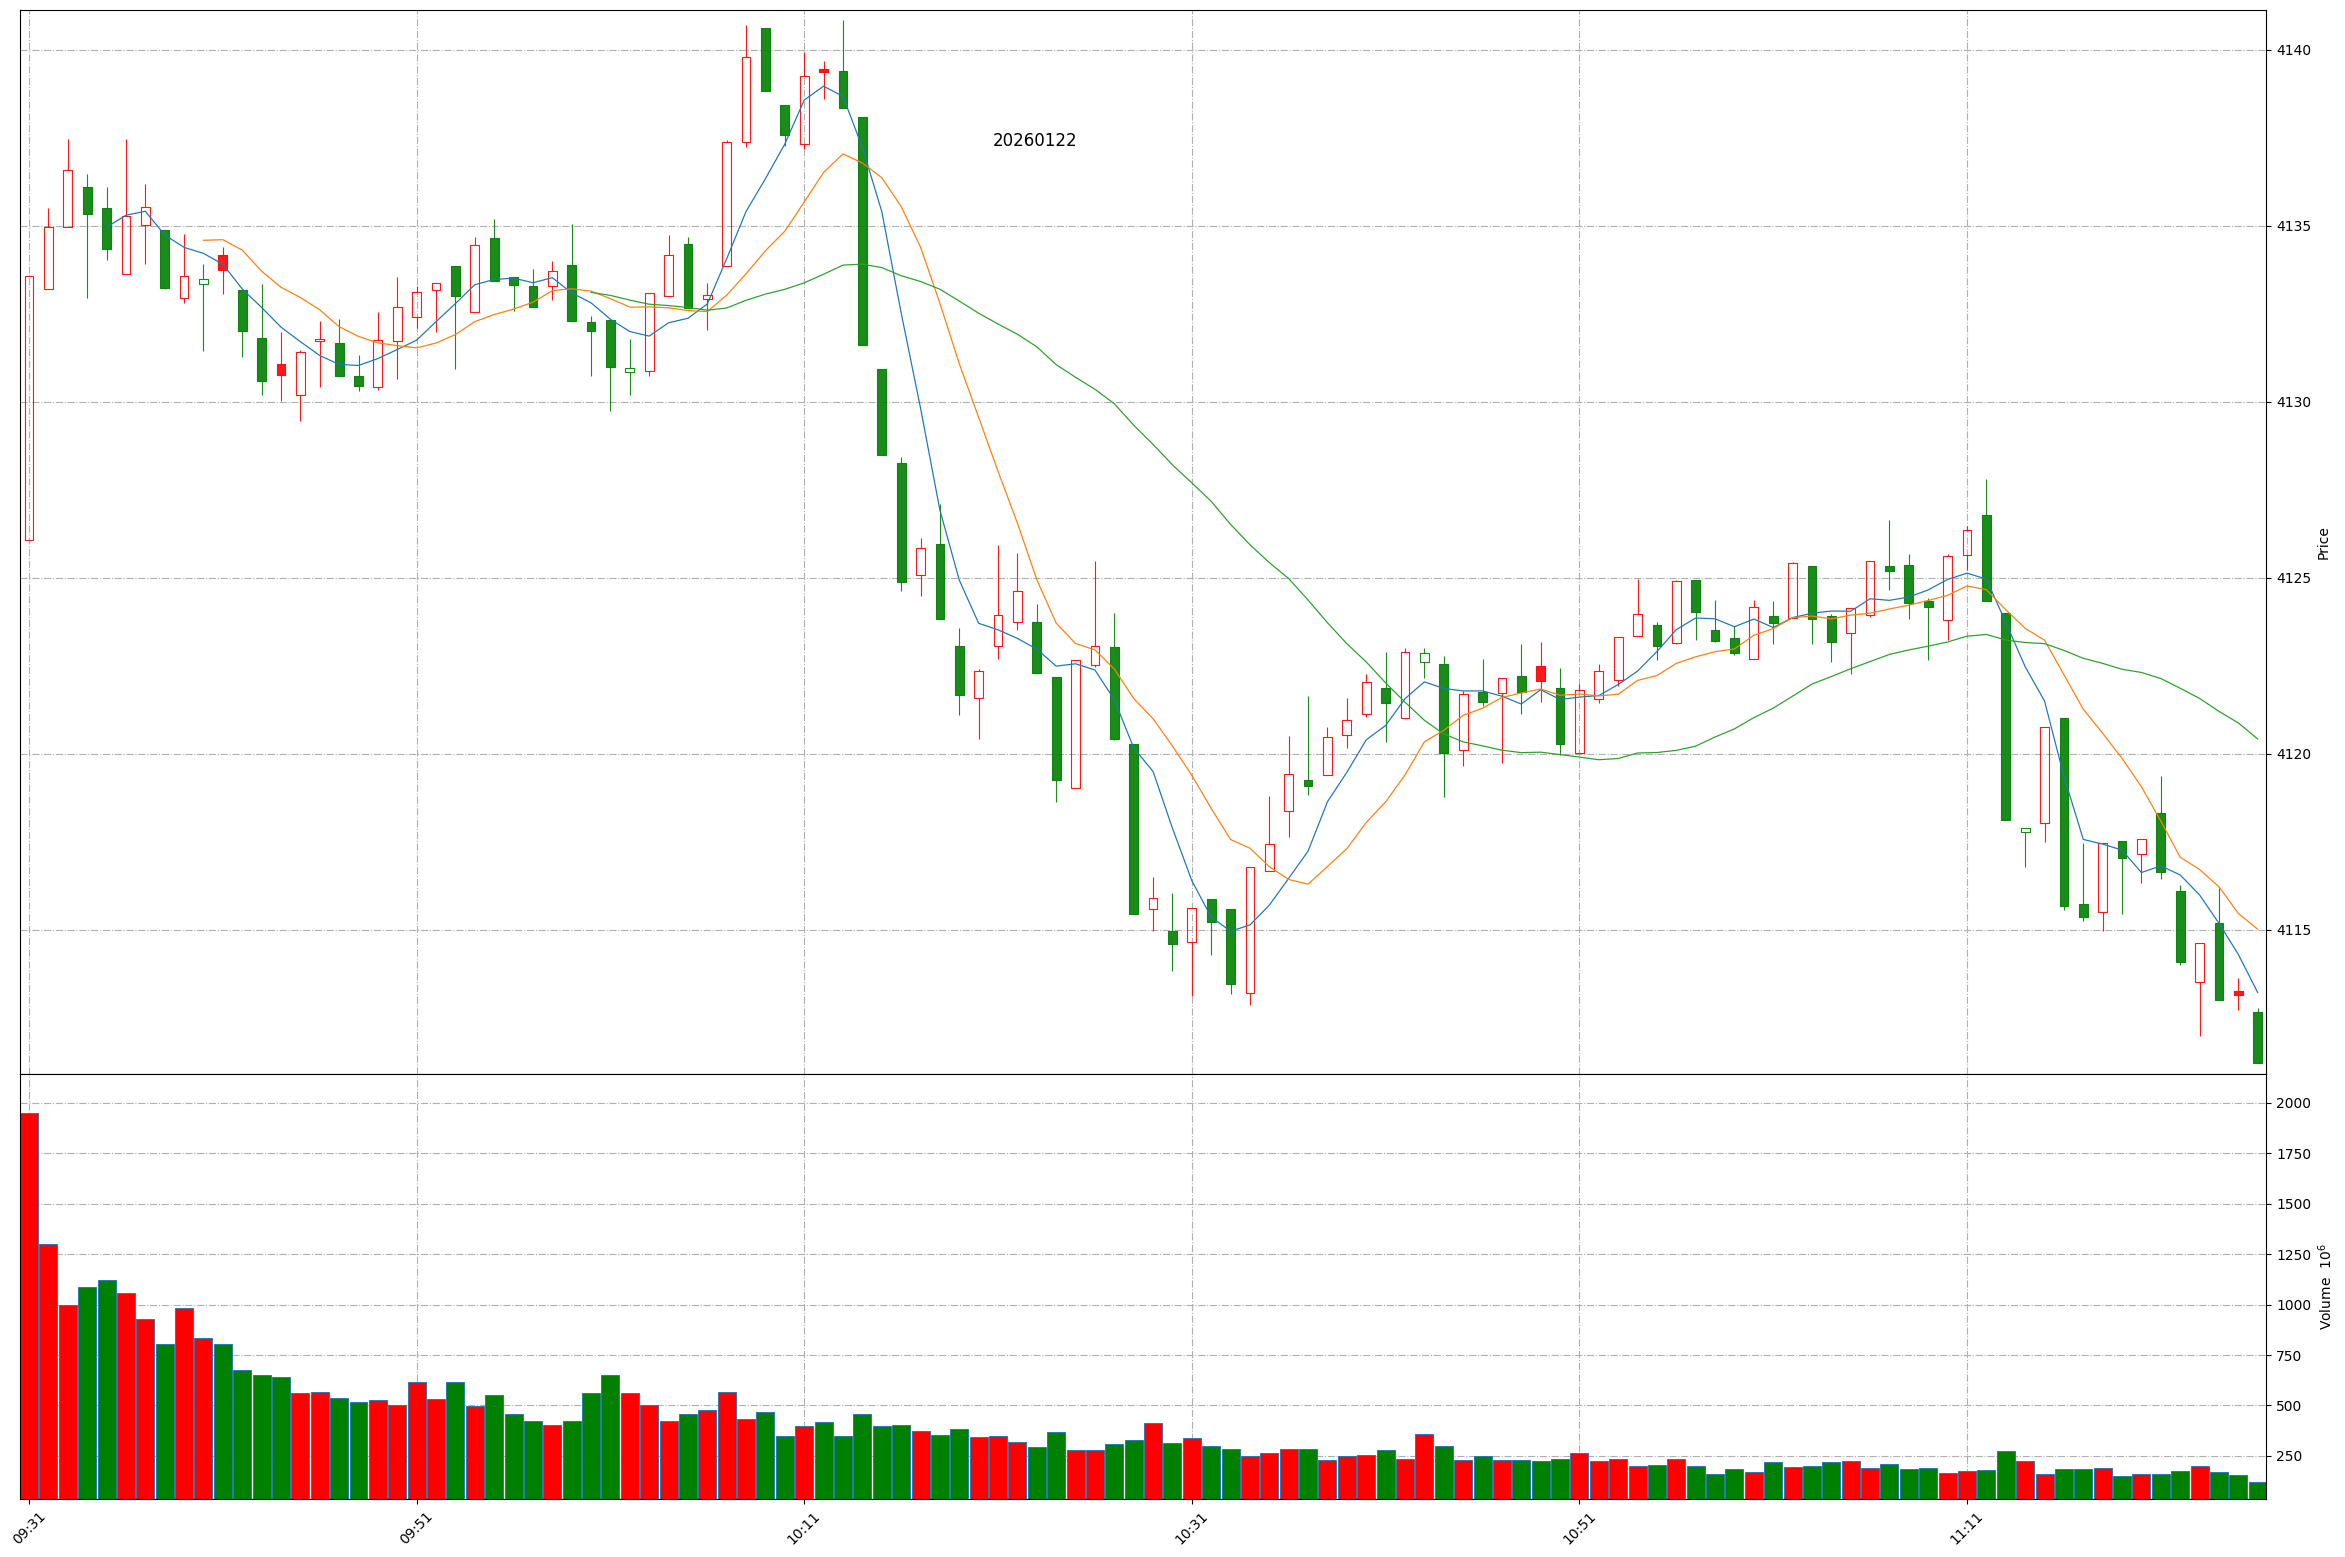
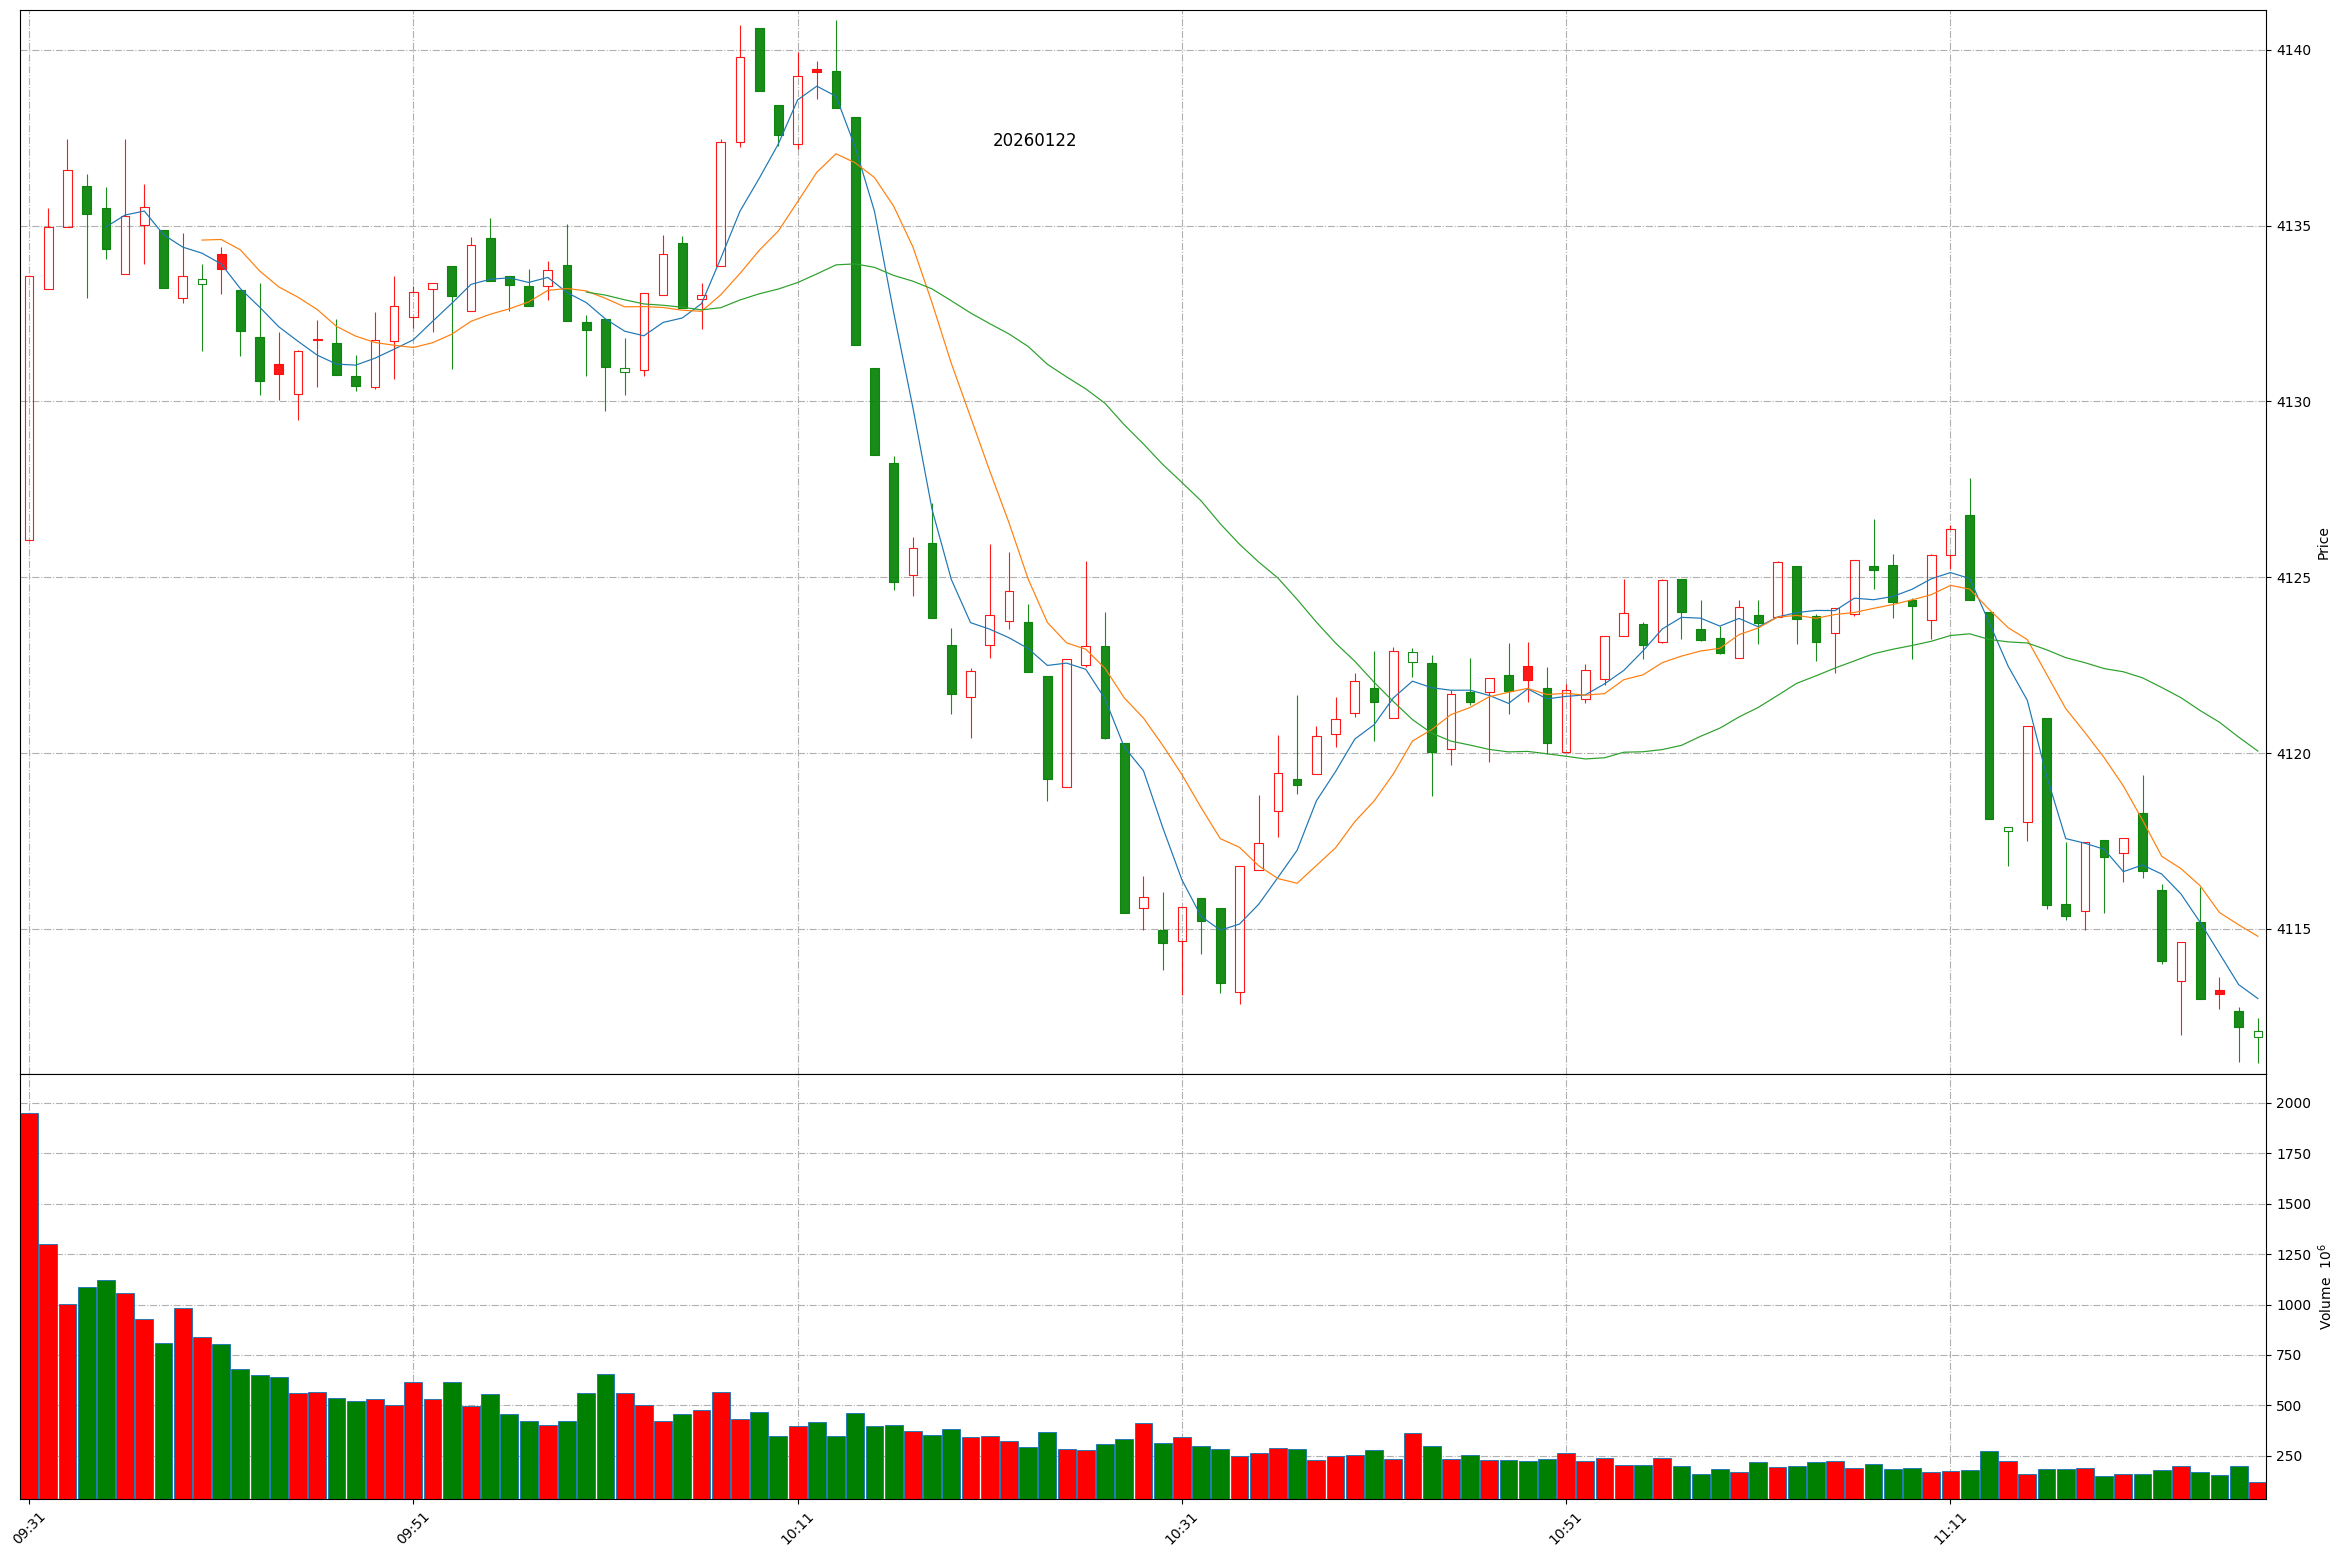
Github action update at 2026-01-22 11:26:55.

diff --git a/README.md b/README.md
@@ -1,11 +1,11 @@
 
 # Daily-A-share-market-quotes 每日 A 股指数（5min 更新）- 20260122
 
-### 上证指数 20260122 11:25
+### 上证指数 20260122 11:26
 ![](./fig/2026/1/20260122-sh000001.png)
 
-### 深证成指 20260122 11:25
+### 深证成指 20260122 11:26
 ![](./fig/2026/1/20260122-sz399001.png)
 
-### 北证50 20260122 11:25
+### 北证50 20260122 11:26
 ![](./fig/2026/1/20260122-bj899050.png)
